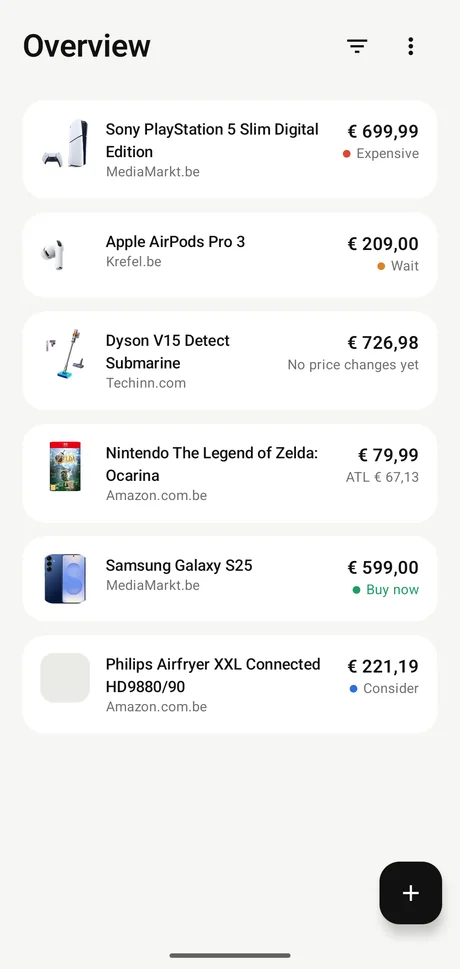
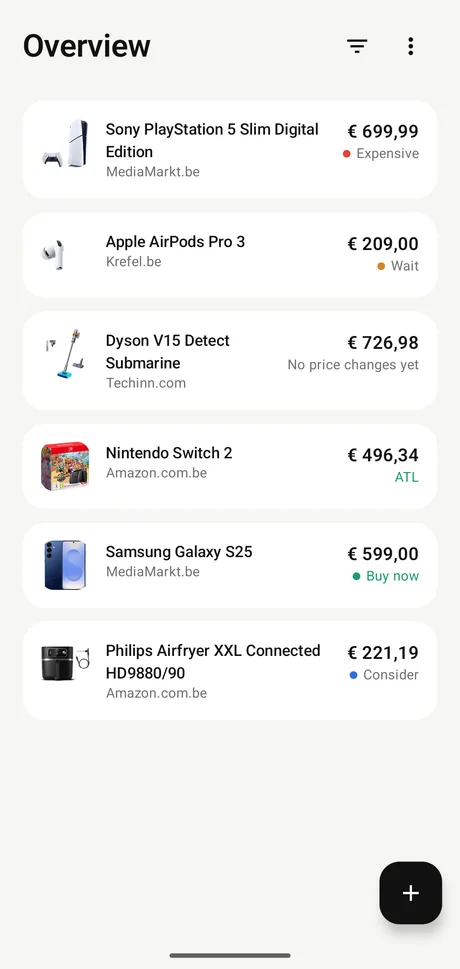
Download page: real app screenshots with real prices, maker's name
Claude-Session: https://claude.ai/code/session_014yLLCYMP62sZVg1WxFivAn

diff --git a/index.html b/index.html
@@ -181,7 +181,7 @@
   <div class="card">
     <p>Voor ik iets koop, probeer ik telkens twee dingen uit te zoeken: in welke winkel het goedkoopst is en of de prijs nu goed zit. Dat betekent winkel na winkel afgaan, en dan weet ik nog niet of die “-30%” wel echt is.</p>
     <p>Nu doet Franxit dat voor mij. Misschien helpt het jou ook.</p>
-    <p class="small">Bart</p>
+    <p class="small">Bart Schram</p>
   </div>
 
   <h2 id="installeren">Zo krijg je het op je gsm</h2>
@@ -217,7 +217,7 @@
   </details>
 
   <footer>
-    <p>Gemaakt in Vlaanderen 🇧🇪 · Enkel voor Android</p>
+    <p>Gemaakt door Bart Schram in Vlaanderen 🇧🇪 · Enkel voor Android</p>
     <p><a class="share" href="https://wa.me/?text=Kijk%20eens%2C%20handig%20als%20je%20iets%20wil%20kopen%3A%20Franxit%20zoekt%20de%20goedkoopste%20winkel%20en%20zegt%20of%20nu%20een%20goed%20moment%20is.%20Enkel%20voor%20Android%3A%20https%3A%2F%2Ffranxit.be%2F" rel="noopener">Deel via WhatsApp</a></p>
     <p><a href="privacy.html">Privacy</a> · <span id="updated"></span></p>
   </footer>
